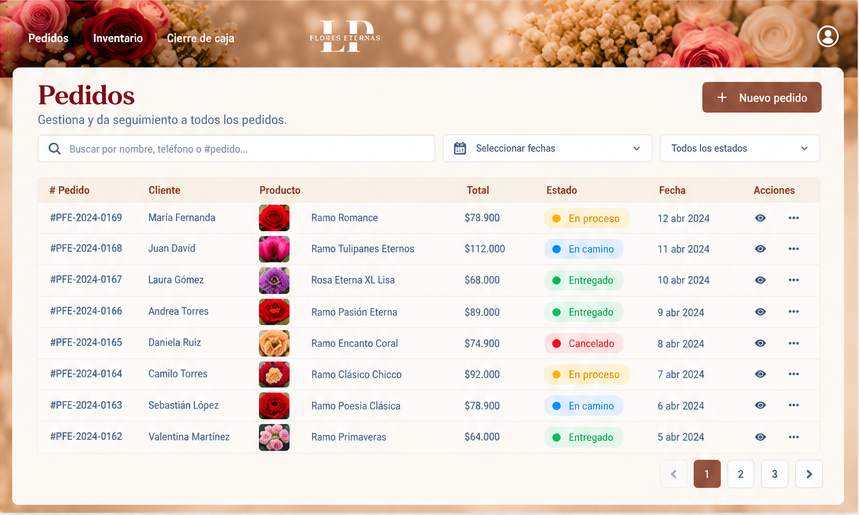
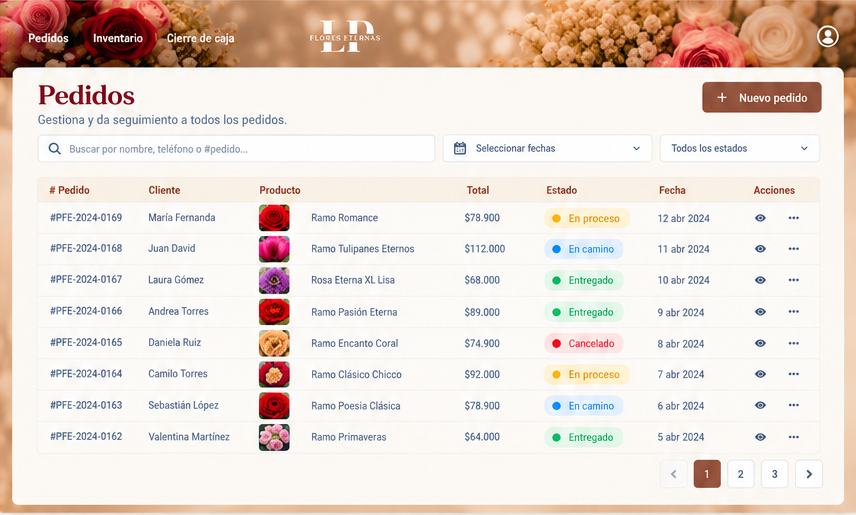
admin section redesign: 3 cards layout with overlap effects, Pedidos 108% width, Inventario/Cierre overlapping, responsive grid 36/64

diff --git a/src/pages/Home.jsx b/src/pages/Home.jsx
@@ -70,15 +70,15 @@ export default function Home() {
 
         {/* Imagen compuesta gigante - FUERA del Container, sin límite lateral */}
         <div className="absolute z-[5] pointer-events-none" aria-hidden="true"
-             style={{
-               top: '64%',
-               left: '62%',
-               transform: 'translate(-50%, -50%)',
-               width: '90%',
-               height: '90%',
-               maxWidth: 'none',
-               maxHeight: 'none',
-             }}>
+          style={{
+            top: '64%',
+            left: '62%',
+            transform: 'translate(-50%, -50%)',
+            width: '90%',
+            height: '90%',
+            maxWidth: 'none',
+            maxHeight: 'none',
+          }}>
           <img
             src={primeraImagen}
             alt=""
@@ -90,12 +90,12 @@ export default function Home() {
 
         {/* Flor1 - ramo en esquina inferior izquierda - 15% más pequeña que 30% extra */}
         <div className="absolute z-[6] pointer-events-none" aria-hidden="true"
-             style={{
-               bottom: '-8%',
-               left: '-4%',
-               width: '31%',
-               maxWidth: 'none',
-             }}>
+          style={{
+            bottom: '-8%',
+            left: '-4%',
+            width: '31%',
+            maxWidth: 'none',
+          }}>
           <img
             src={flor1}
             alt=""
@@ -105,14 +105,20 @@ export default function Home() {
           />
         </div>
 
-        <Container size="main" className="relative z-20 pt-10 lg:pt-16 px-[50px] lg:px-[50px] max-w-none">
+        <div
+          className="relative z-20 pt-24 pb-16 lg:pt-32 lg:pb-24"
+          style={{ paddingLeft: '11%', paddingRight: '3%' }}
+        >
           <div className="relative z-10">
             <div className="grid lg:grid-cols-2 gap-12 lg:gap-20 items-center">
               {/* COLUMNA IZQUIERDA: TEXTO */}
-              <div className="lg:pr-0 text-center lg:text-left animate-fade-in-up mt-15" style={{ animationDelay: '100ms' }}>
+              <div
+                className="lg:pr-0 text-center lg:text-left animate-fade-in-up"
+                style={{ animationDelay: '100ms', position: 'relative', top: '-90px', left: '-230px' }}
+              >
                 <h1
                   id="hero-title"
-                  className="font-lora text-vino text-5xl md:text-6xl lg:text-6xl leading-[1.05]"
+                  className="font-lora text-vino text-5xl xl:text-6xl leading-[1.05]"
                 >
                   Tu negocio
                   <br />
@@ -135,7 +141,7 @@ export default function Home() {
                   complicaciones.
                 </Body>
 
-                <div className="!mt-14  flex flex-col sm:flex-row gap-4 justify-center lg:justify-start">
+                <div className="!mt-14 flex flex-col sm:flex-row gap-4 justify-center lg:justify-start">
                   <ButtonPrimary
                     iconLeft={playIcon}
                     iconRight={arrowIcon}
@@ -155,7 +161,7 @@ export default function Home() {
               </div>
             </div>
           </div>
-        </Container>
+        </div>
 
         {/* Flecha scroll - overlap 20px a siguiente sección */}
         <div className="absolute bottom-4 left-1/2 -translate-x-1/2 z-30 animate-bounce" aria-hidden="true">
@@ -169,7 +175,7 @@ export default function Home() {
       </Section>
 
       {/* SECCIÓN: ADMINISTRA TU NEGOCIO */}
-      <Section variant="adminHero" id="administra" aria-labelledby="admin-title" className="relative">
+      <Section variant="adminHero" id="administra" aria-labelledby="admin-title" className="relative overflow-hidden">
         {/* Fondo: Fondo2.png */}
         <div className="absolute inset-0 z-0" aria-hidden="true">
           <img
@@ -178,109 +184,82 @@ export default function Home() {
             className="w-full h-full object-cover"
             loading="lazy"
           />
-          {/* Difuminado intenso hacia la izquierda (desde donde están las imágenes) */}
-          <div className="absolute inset-0 bg-gradient-to-l from-crema/95 via-crema/70 to-transparent" />
         </div>
 
-        {/* Tres tarjetas UI - ABSOLUTAS, fuera del Container (estilo Hero) - Tamaño original al 50% */}
-        <div className="absolute z-[5] pointer-events-none" aria-hidden="true"
-             style={{
-               top: '64%',
-               left: '62%',
-               transform: 'translate(-50%, -50%)',
-               width: '85%',
-               height: '85%',
-               maxWidth: 'none',
-               maxHeight: 'none',
-             }}>
-          {/* Pedidos - izquierda (delante) */}
-          <div style={{
-            position: 'absolute',
-            top: '10%',
-            left: '36%',
-            transform: 'scale(0.6)',
-            transformOrigin: 'top left',
-            zIndex: 10,
-          }}>
-            <img
-              src={imgPedidos}
-              alt="Panel de Pedidos"
-              className="drop-shadow-warm-xl rounded-2xl opacity-100"
-              loading="eager"
-              style={{ objectFit: 'contain', display: 'block' }}
-            />
-          </div>
-          {/* Inventario - centro (delante) */}
-          <div style={{
-            position: 'absolute',
-            top: '350px',
-            left: '52%',
-            transform: 'scale(0.6)',
-            transformOrigin: 'top center',
-            zIndex: 10,
-          }}>
-            <img
-              src={imgInventario}
-              alt="Panel de Inventario"
-              className="drop-shadow-warm-xl rounded-2xl opacity-100"
-              loading="eager"
-              style={{ objectFit: 'contain', display: 'block' }}
-            />
-          </div>
-          {/* Cierre de Caja - derecha (atrás, 5% más pequeña = scale 0.70, 200px arriba) */}
-          <div style={{
-            position: 'absolute',
-            top: 'calc(10% - 200px)',
-            right: 'calc(5% + 80px)',
-            transform: 'scale(0.70)',
-            transformOrigin: 'top right',
-            zIndex: 5,
-          }}>
-            <img
-              src={imgCierreCaja}
-              alt="Panel de Cierre de Caja"
-              className="drop-shadow-warm-xl rounded-2xl opacity-100"
-              loading="eager"
-              style={{ objectFit: 'contain', display: 'block' }}
-            />
-          </div>
-        </div>
-
-        <div className="relative z-20 pt-10 lg:pt-16" style={{ paddingLeft: '11%', paddingRight: '8%' }}>
-          <div className="relative z-10">
-            <div className="grid lg:grid-cols-2 gap-12 lg:gap-20 items-center">
-              {/* COLUMNA IZQUIERDA: TEXTO - MISMO QUE HERO */}
-              <div className="lg:pr-0 text-center lg:text-left animate-fade-in-up mt-15" style={{ animationDelay: '100ms' }}>
-                <h1
-                  id="admin-title"
-                  className="font-lora text-vino text-5xl md:text-6xl lg:text-6xl leading-[1.05]"
+        <div
+          className="relative z-20 pt-24 pb-16 lg:pt-32 lg:pb-24"
+          style={{ paddingLeft: '11%', paddingRight: '3%' }}
+        >
+          <div className="grid lg:grid-cols-[minmax(0,36%)_minmax(0,64%)] gap-12 lg:gap-0 items-center">
+            {/* COLUMNA IZQUIERDA: TEXTO */}
+            <div
+              className="relative z-30 text-center lg:text-left animate-fade-in-up"
+              style={{ animationDelay: '100ms', position: 'relative', top: '-90px', left: '-45px' }}
+            >
+              <h1
+                id="admin-title"
+                className="font-lora text-vino text-5xl xl:text-6xl leading-[1.05]"
+              >
+                Administra
+                <br />
+                tu negocio
+                <span
+                  className="block font-radley italic mt-1 lg:whitespace-nowrap"
+                  style={{ color: '#fd465b' }}
                 >
-                  Administra
-                  <br />
-                  tu negocio
-                  <span
-                    className="block font-radley italic mt-1 whitespace-nowrap"
-                    style={{ color: '#fd465b' }}
-                  >
-                    sin complicaciones.
-                  </span>
-                </h1>
-                <Body
-                  size="lg"
-                  color="cafe-oscuro"
-                  className="!mt-6 !mb-0 max-w-md mx-auto lg:mx-0 text-center lg:text-left leading-relaxed"
-                >
-                  Lleva el control de tus pedidos, inventario
-                  <br />
-                  y cierre de caja desde una interfaz
-                  <br />
-                  simple e intuitiva
-                </Body>
-              </div>
+                  sin complicaciones.
+                </span>
+              </h1>
 
-              {/* COLUMNA DERECHA: Espacio visual para que la imagen absolute se vea */}
-              <div className="relative animate-fade-in-up" style={{ animationDelay: '300ms' }}>
-                <div className="aspect-[4/3] lg:aspect-[3/2] w-full" />
+              <Body
+                size="lg"
+                color="cafe-oscuro"
+                className="!mt-6 !mb-0 max-w-md mx-auto lg:mx-0 text-center lg:text-left leading-relaxed"
+              >
+                Lleva el control de tus pedidos, inventario
+                <br />
+                y cierre de caja desde una interfaz
+                <br />
+                simple e intuitiva.
+              </Body>
+            </div>
+
+            {/* COLUMNA DERECHA: Pedidos a la derecha, Inventario y Cierre tapándola */}
+            <div
+              className="relative w-full min-w-0 animate-fade-in-up"
+              style={{ animationDelay: '300ms' }}
+            >
+              {/* Pedidos */}
+              <img
+                src={imgPedidos}
+                alt="Panel de Pedidos de Flores Eternas"
+                className="relative z-10 block w-full lg:w-[95%] ml-auto rounded-3xl drop-shadow-warm-xl"
+                loading="eager"
+              />
+
+              {/* Inventario y Cierre: misma ALTURA, ancho natural, salen por izquierda y un poco por la derecha */}
+              <div
+                className="relative z-20 flex items-start gap-3"
+                style={{
+                  width: 'max-content',
+                  marginLeft: '-8%',
+                  marginTop: 'calc(-9% - 130px)',
+                }}
+              >
+                <img
+                  src={imgInventario}
+                  alt="Panel de Inventario de Flores Eternas"
+                  className="block h-auto w-auto max-w-none rounded-3xl drop-shadow-warm-xl"
+                  style={{ height: '14vw' }}
+                  loading="eager"
+                />
+                <img
+                  src={imgCierreCaja}
+                  alt="Panel de Cierre de caja de Flores Eternas"
+                  className="block h-auto w-auto max-w-none rounded-3xl drop-shadow-warm-xl"
+                  style={{ height: '14vw' }}
+                  loading="eager"
+                />
               </div>
             </div>
           </div>
